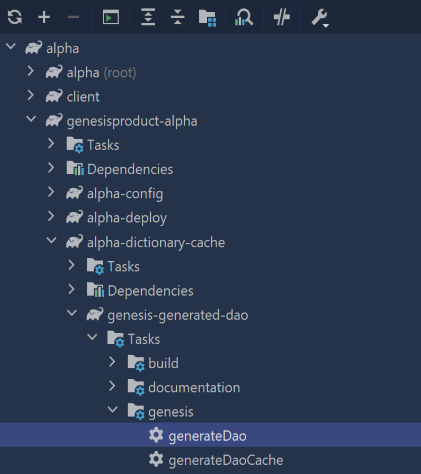
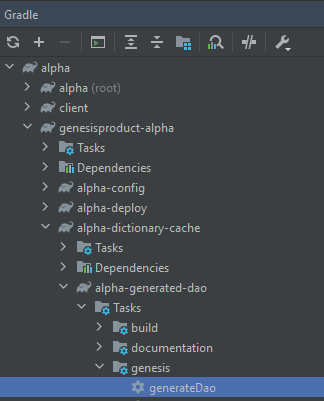
PLT-659: commands in the Quickstart have changed
words changed
pictures changed
a couple of extras in grammar and typo

Changed region(s): [[0.0, 0.0, 1.0, 1.0]]

diff --git a/docs/01_getting-started/02_quick-start/03_define-the-data-model.md b/docs/01_getting-started/02_quick-start/03_define-the-data-model.md
@@ -46,7 +46,7 @@ You can find more information on fields [here](../../../database/fields-tables-v
 
 After you have saved this file, run genesis-generated-fields from the Gradle menu on the right of Intellij, this is:
 
- **genesisproduct-alpha**/**alpha-dictionary-cache**/**genesis-generated-fields**/**Tasks**/**genesis**/**generateFields**
+ **genesisproduct-alpha**/**alpha-dictionary-cache**/**alpha-generated-fields**/**Tasks**/**genesis**/**generateFields**
 
 ![](/img/build-gradle-kts-fields.png)
 
@@ -79,8 +79,8 @@ You can find more information on tables [here](../../../database/fields-tables-v
 
 After you have saved this file, run genesis-generated-dao from the Gradle menu, this is:
 
-**genesisproduct-alpha**/**alpha-dictionary-cache**/**genesis-generated-dao**/**Tasks**/**genesis**/**generateDAO**
+**genesisproduct-alpha**/**alpha-dictionary-cache**/**alpha-generated-dao**/**Tasks**/**genesis**/**generateDAO**
 
 ![](/img/build-gradle-kts-generated-dao.png)
 
-Now that that is done, you can create the key modules that surround the database.
+Now that that has been done, you can create the key modules that surround the database.

diff --git a/versioned_docs/version-2022.4/01_getting-started/02_quick-start/03_define-the-data-model.md b/versioned_docs/version-2022.4/01_getting-started/02_quick-start/03_define-the-data-model.md
@@ -46,7 +46,7 @@ You can find more information on fields [here](../../../database/fields-tables-v
 
 After you have saved this file, run genesis-generated-fields from the Gradle menu on the right of Intellij, this is:
 
- **genesisproduct-alpha**/**alpha-dictionary-cache**/**genesis-generated-fields**/**Tasks**/**genesis**/**generateFields**
+ **genesisproduct-alpha**/**alpha-dictionary-cache**/**alpha-generated-fields**/**Tasks**/**genesis**/**generateFields**
 
 ![](/img/build-gradle-kts-fields.png)
 
@@ -79,8 +79,8 @@ You can find more information on tables [here](../../../database/fields-tables-v
 
 After you have saved this file, run genesis-generated-dao from the Gradle menu, this is:
 
-**genesisproduct-alpha**/**alpha-dictionary-cache**/**genesis-generated-dao**/**Tasks**/**genesis**/**generateDAO**
+**genesisproduct-alpha**/**alpha-dictionary-cache**/**alpha-generated-dao**/**Tasks**/**genesis**/**generateDAO**
 
 ![](/img/build-gradle-kts-generated-dao.png)
 
-Now that that is done, you can create the key modules that surround the database.
+Now that that has been done, you can create the key modules that surround the database.

diff --git a/docs/01_getting-started/02_quick-start/05_prepare-the-server-and-build.md b/docs/01_getting-started/02_quick-start/05_prepare-the-server-and-build.md
@@ -50,7 +50,7 @@ Add the following content to the **alpha-processes.xml** file:
 </processes>
 ```
 
-Further information can be found in the **-processes.xml** [file](../../..../../../server/configuring-runtime/processes/).
+Further information can be found in our page on the [**-processes.xml** file](../../..../../../server/configuring-runtime/processes/).
 
 You can then add the following content to the **alpha-service-definitions.xml** file.
 
@@ -96,12 +96,12 @@ systemDefinition {
 
 Finally, you can build the server.
 
-In the Gradle menu on the right of IntelliJ, select **genesis-project-alpha**/**Tasks**/**Build/Assemble**.
+In the Gradle menu on the right of IntelliJ, select **genesisproduct-alpha**/**Tasks**/**Build/Assemble**.
 
 ![](/img/assemble-server.png)
 
-You can procede to the next step whilst loading.
+You can proceed to the next step whilst loading.
 
-After loading is completed you have a functional server.
+After loading is complete, you have a functional server.
 
 Congratulations! You have completed the prepare and build.

diff --git a/versioned_docs/version-2022.4/01_getting-started/02_quick-start/05_prepare-the-server-and-build.md b/versioned_docs/version-2022.4/01_getting-started/02_quick-start/05_prepare-the-server-and-build.md
@@ -50,7 +50,7 @@ Add the following content to the **alpha-processes.xml** file.
 </processes>
 ```
 
-You can find more info on the **-processes.xml** file [here](../../../server/configuring-runtime/processes/).
+You can find more info on the our page on the [**-processes.xml** file](../../../server/configuring-runtime/processes/).
 
 You can then add the following content to the **alpha-service-definitions.xml** file.
 
@@ -96,12 +96,12 @@ systemDefinition {
 
 Finally, you can build the server.
 
-In the Gradle menu on the right of IntelliJ, select **genesis-project-alpha**/**Tasks**/**Build/Assemble**.
+In the Gradle menu on the right of IntelliJ, select **genesisproduct-alpha**/**Tasks**/**Build/Assemble**.
 
 ![](/img/assemble-server.png)
 
-You can procede to the next step whilst loading.
+You can proceed to the next step whilst loading.
 
-After loading is completed you have a functional server.
+After loading is complete, you have a functional server.
 
 Congratulations! you have completed the prepare and build.
